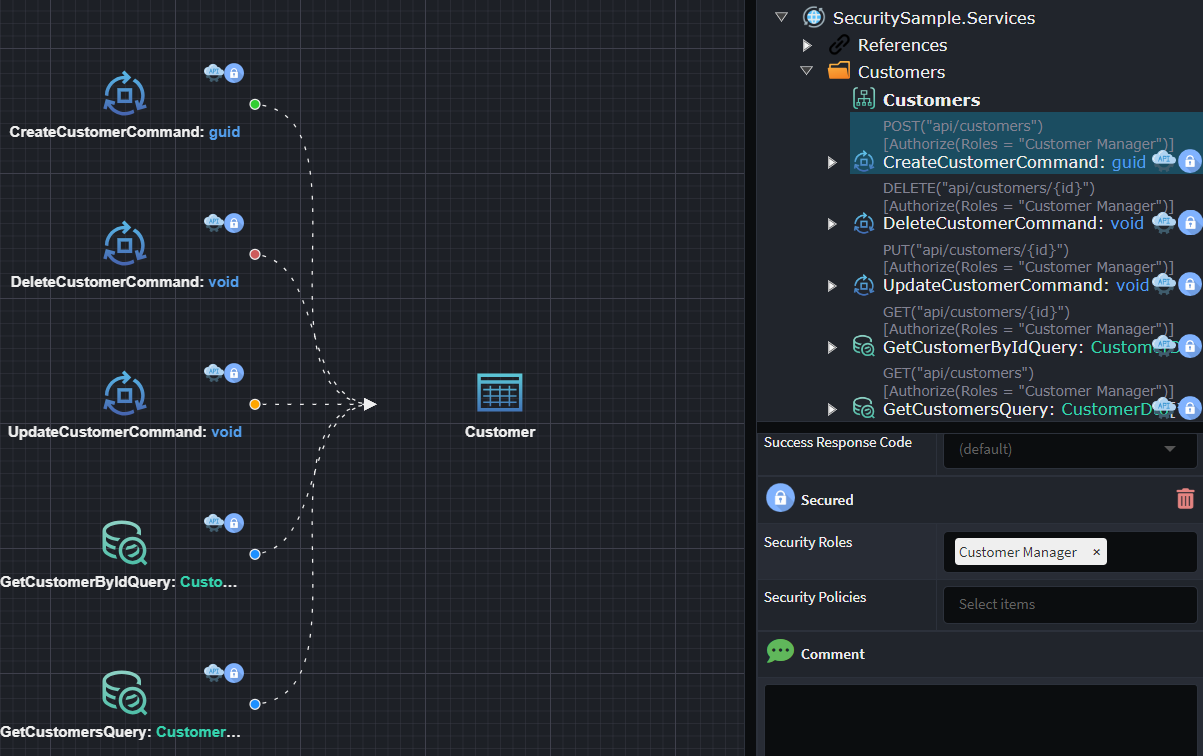
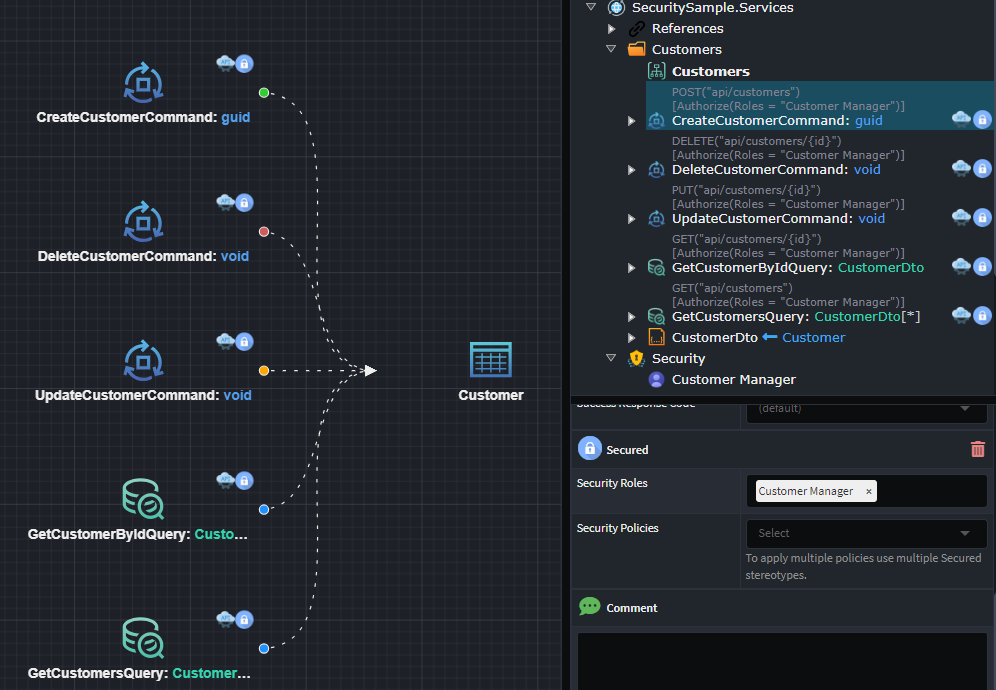
Updated documentation around Secured stereotype and policies

diff --git a/articles/application-development/modelling/services-designer/securing-services/securing-services.md b/articles/application-development/modelling/services-designer/securing-services/securing-services.md
@@ -31,7 +31,15 @@ Depending on whether [common Roles and Policies are defined](#defining-common-ro
 
 ![The "Secured" stereotype showing an example of using pre-defined common names](images/secured-stereotype-common-names.png)
 
-If multiple Roles or Policies are specified on a Secured stereotype, only one of them need apply to the incoming user, essentially you are specifying that the user needs to be in _any_ of roles and meeting _any_ of the security policies in order to be considered authorized.
+#### Role and Policy Behavior
+
+When configuring the `Secured` stereotype:
+
+- **Multiple Roles**: If multiple roles are specified, the authorization check will succeed if the user belongs to any one of the listed roles. This defines a logical OR condition across the roles.
+
+- **Multiple Policies**: If multiple policies are required, the user must satisfy all specified policies for authorization to succeed. This defines a logical AND condition across the policies. To enforce multiple policies, apply the Secured stereotype multiple times—each instance specifying a different policy.
+
+#### Unsecured
 
 The Unsecured stereotype can be used to specify that a resource does not require a user to authenticated in order to be accessed. It is only necessary to apply this if you wish a particular resource to "opt-out" of being secure if a parent element/package or application setting would otherwise cause the resource to be secured implicitly.
 
